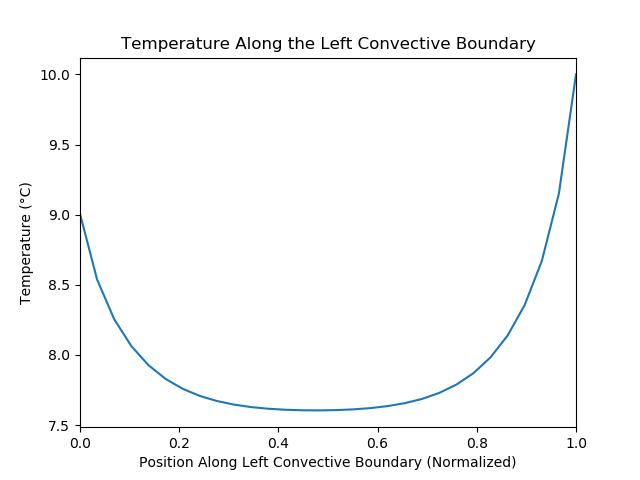
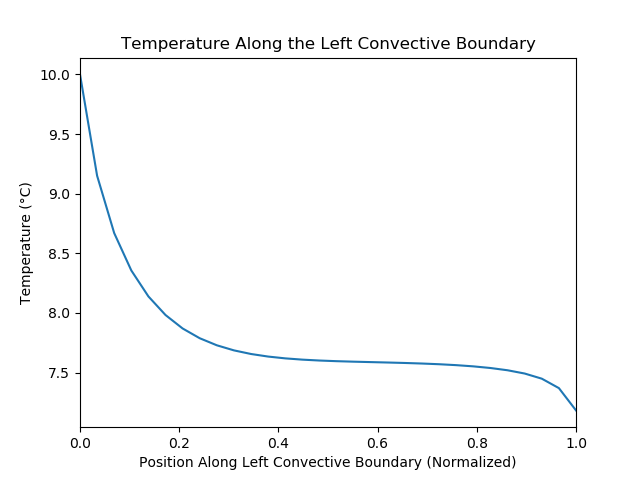
Fixes.

diff --git a/Problem-Set-5/PSet-5.py b/Problem-Set-5/PSet-5.py
@@ -18,10 +18,10 @@ k = 5.2                 # W/(m*C)    Thermal Conductivity
 alpha = k / (rho * c)   # m^2/s      Thermal Diffusivity
 
 dt_1 = rho * c * (delta * delta) / (2 * h * delta + 4 * k)  # Characteristic time (convective boundary)
-dt_2 = (delta  * delta) / (4 * alpha)                  # Characteristic time (internal grid)
+dt_2 = (delta  * delta) / (4 * alpha)                       # Characteristic time (internal grid)
 dt = min(dt_1, dt_2)
-Fo = alpha * dt / (delta * delta)                     # Fourier Number
-Bi = h * delta / k                                # Biot Number
+Fo = alpha * dt / (delta * delta)                           # Fourier Number
+Bi = h * delta / k                                          # Biot Number
 print(dt_1)
 print(dt_2)
 T_initial = 10
@@ -42,18 +42,22 @@ for t in range(num_time_steps):
     # Internal Nodes
     for m in range(1, width - 1):
         for n in range(1, height - 1):
-            #data[m, n] = (data_old[m + 1, n] + data_old[m - 1, n] + data_old[m, n + 1] + data_old[m, n - 1]) / 4
             data[m, n] = alpha * dt / (delta * delta) * (data_old[m + 1, n] + data_old[m - 1, n] + data_old[m, n + 1] + data_old[m, n - 1]) + (1 - 4 * alpha * dt / (delta * delta)) * data_old[m, n]
 
     # Convective Boundary Nodes (Left)
-    for n in range(0, height - 1):
+    for n in range(1, height - 1):
         m = 0
         data[m, n] = Fo * (2 * Bi * (T_inf - data_old[m, n]) + 2 * data_old[m + 1, n] + data_old[m, n + 1] + data_old[m, n - 1] - 4 * data_old[m, n]) + data_old[m, n]
 
     # Insulated Boundary Nodes (Top)
     for m in range(1, width - 1):
-        data[m, 0] = Fo * (2 * data_old[m, n - 1] + data_old[m - 1, n] + data_old[m + 1, n]) + (1 - 4 * Fo) * data_old[m, n]
+        n = height - 1
+        data[m, n] = Fo * (2 * data_old[m, n - 1] + data_old[m - 1, n] + data_old[m + 1, n]) + (1 - 4 * Fo) * data_old[m, n]
 
+    # Exterior Corner with Convection Boundary
+    m = 0
+    n = height - 1
+    data[m, n] = 2 * Fo * (data_old[m + 1, n] + data_old[m, n - 1] - 2 * data_old[m, n] + 2 * Bi * (T_inf - data_old[m, n])) + data_old[m, n]
 
 
 # Print the data in the console (readable format)
@@ -83,23 +87,11 @@ plt.xlim(0, 1)
 plt.savefig(fileName + "/images/" + fileName + "-Figure-" + str(figNum) + ".png")
 plt.show()
 
-# figNum = 1
-# plt.figure(figNum)
-# x = np.linspace(0, height, width)
-# index = np.ceil(height / 2)
-# y = data[index.astype(int), :]
-# plt.plot(x, y)
-# plt.xlabel(r'$\mathrm{Position\ Along\ Left\ Convective\ Boundary\ (Normalized\ to\ \frac{Width}{Height})}$')
-# plt.ylabel("Temperature (\N{DEGREE SIGN}C)")
-# plt.title("Temperature Along the Left Convective Boundary")
-# plt.savefig(fileName + "/images/" + fileName + "-Figure-" + str(figNum) + ".png")
-# plt.show()
-
 figNum = 3
 plt.figure(figNum)
 plt.axes().set_aspect('equal')
 plt.style.use('classic')
-data_graphable = np.rot90(data)
+data_graphable = np.flipud(np.rot90(data))
 heatmap = plt.pcolor(data_graphable)
 
 plt.text(0.5, -0.02, "T = " + str(T_initial) + "\N{DEGREE SIGN}C",
@@ -134,7 +126,7 @@ plt.ylim(0, height)
 
 cbar = plt.colorbar(heatmap)
 cbar.set_label("Temperature (\N{DEGREE SIGN}C)")
-plt.clim(0, np.amax(data))
+plt.clim(np.amin(data), np.amax(data))
 
 plt.savefig(fileName + "/images/" + fileName + "-Figure-" + str(figNum) + ".png")
 plt.show()

diff --git a/README.md b/README.md
@@ -16,7 +16,7 @@ Numerically solve a specified grid for temperature across time-steps until reach
 "PSet-5.p<i></i>y" is the project code. "PSet-5-Print.tex" compiles images and the code into a PDF for printing.
 
 <p align="center">
-<img alt="PSet-5 Final Image" src="https://raw.githubusercontent.com/sdale28/Heat-Transfer/master/Problem-Set-5/images/Problem-Set-5-1.png">
+<img alt="PSet-5 Final Image" src="https://raw.githubusercontent.com/sdale28/Heat-Transfer/master/Problem-Set-5/images/Problem-Set-5-Figure-3.png">
 </p>
 
 ---
